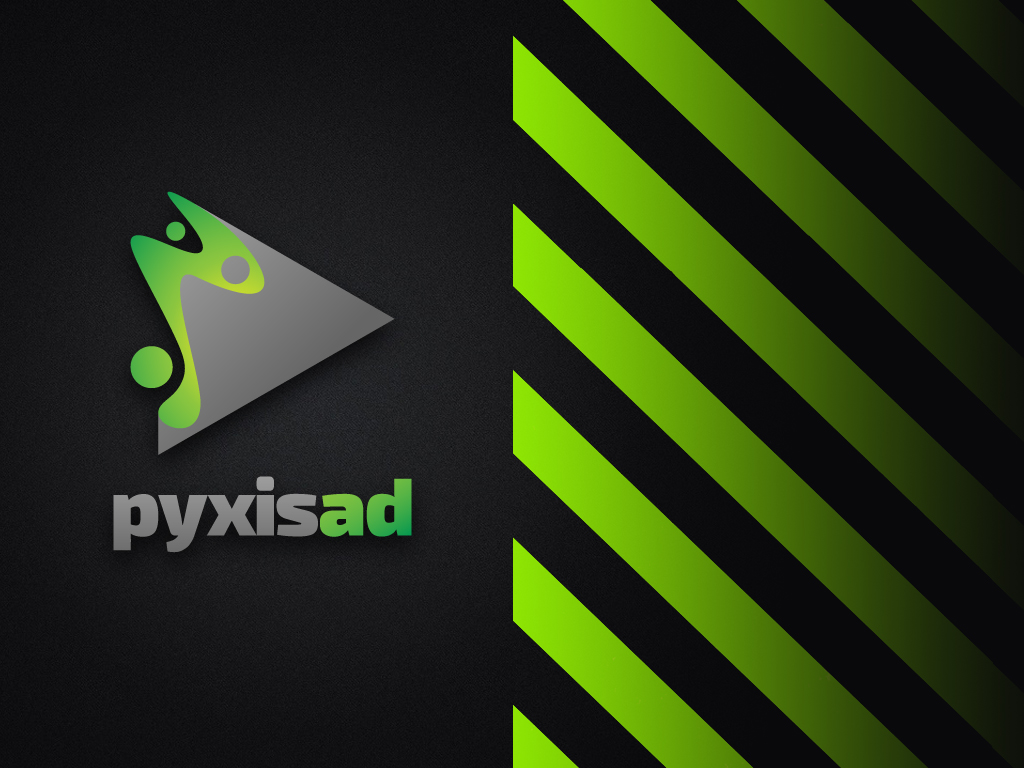
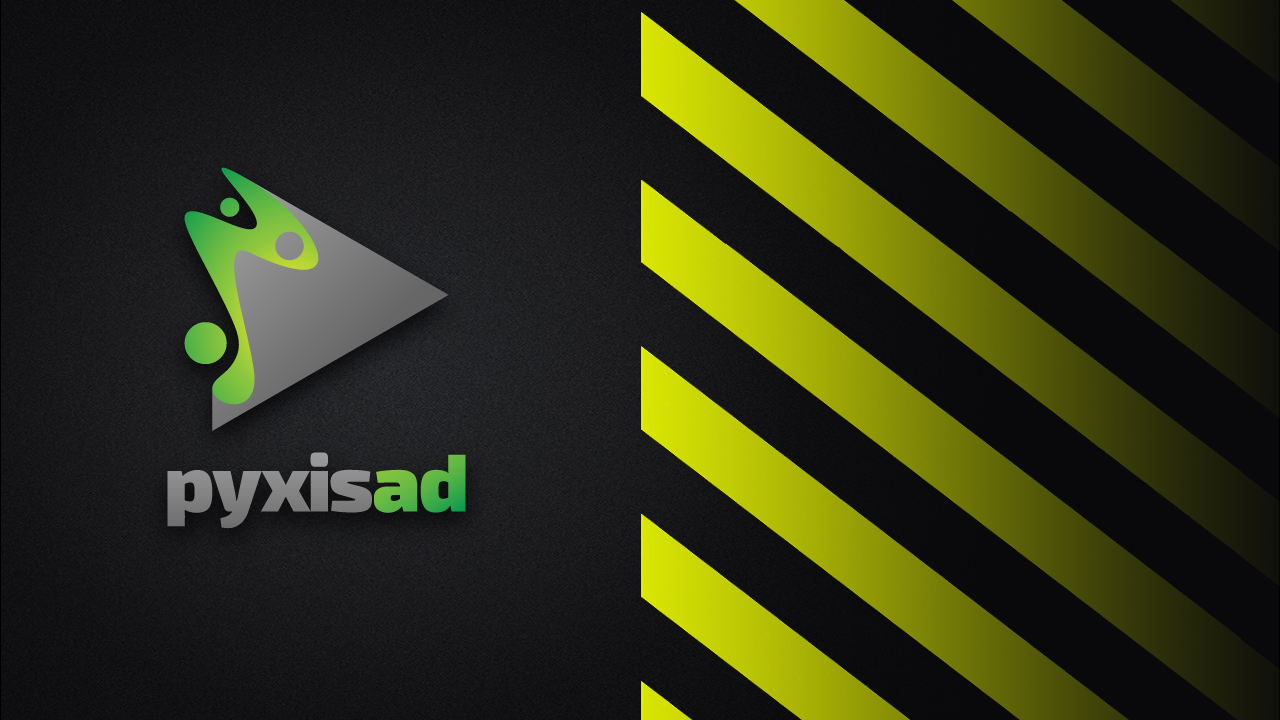
Revision 11-23-14
File update.

diff --git a/css/styles.css b/css/styles.css
@@ -1,6 +1,6 @@
 @charset "utf-8";
 #container {
 	margin: auto;
-	height: 768px;
-	width: 1024px;
+	height: 720px;
+	width: 1280px;
 }
